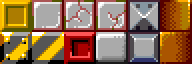
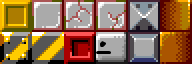
Added the directionality through a transform rotating the GameObject and the child objects associated. ShootAbility.cs works now properly!

Changed region(s): [[0.5, 0.625, 0.5625, 0.75], [0.5, 0.7812, 0.5938, 0.8438]]

diff --git a/Assets/Backend/Model/Ability/AbilityTypes/MoveAbility.cs b/Assets/Backend/Model/Ability/AbilityTypes/MoveAbility.cs
@@ -8,6 +8,7 @@ namespace Assets.Backend.Model
         public MoveAbilityArgs AbilityArgs { get; set; }
 
         private readonly Rigidbody2D _rigidBody;
+        private readonly Transform _transform;
 
         public MoveAbility(Character character, MoveAbilityArgs abilityArgs)
         {
@@ -16,18 +17,37 @@ namespace Assets.Backend.Model
 
             Input = Character.GetInput();
             _rigidBody = Character.Representation.GetComponent<Rigidbody2D>();
+            _transform = Character.Representation.GetComponent<Transform>();
         }
 
         public override void Activate()
         {
             if (Input.IsIntentingToMoveLeft)
             {
+                
+                if(Character.HorizontalDirection == EnHorizontalDirection.Right)
+                {
+                    _transform.localScale = new Vector3(
+                            _transform.localScale.x * -1,
+                            _transform.localScale.y,
+                            _transform.localScale.z);
+                }
+
                 Character.HorizontalDirection = EnHorizontalDirection.Left;
+
                 _rigidBody.velocity = new Vector2(-AbilityArgs.MoveSpeed, _rigidBody.velocity.y);
             }
                 
             else if (Input.IsIntentingToMoveRight)
             {
+                if (Character.HorizontalDirection == EnHorizontalDirection.Left)
+                {
+                    _transform.localScale = new Vector3(
+                            _transform.localScale.x * -1,
+                            _transform.localScale.y,
+                            _transform.localScale.z);
+                }
+
                 Character.HorizontalDirection = EnHorizontalDirection.Right;
                 _rigidBody.velocity = new Vector2(AbilityArgs.MoveSpeed, _rigidBody.velocity.y);
             }

diff --git a/Assets/Backend/Model/Ability/AbilityTypes/ShootAbility.cs b/Assets/Backend/Model/Ability/AbilityTypes/ShootAbility.cs
@@ -23,8 +23,20 @@ namespace Assets.Backend.Model
             if (AbilityArgs.Projectile == null) return;
             if (Input.IsIntentingToShoot)
             {
+                int potency = 5;
                 var projectile = _monoBehaviourUtils.CreateAndThenDestroy(AbilityArgs.Projectile, AbilityArgs.bulletSpawn, 2.0f);
-                projectile.GetComponent<Rigidbody2D>().velocity = projectile.transform.right * 5;
+
+                
+                if (Character.HorizontalDirection == EnHorizontalDirection.Right)
+                {
+                    
+                    projectile.GetComponent<Rigidbody2D>().velocity = projectile.transform.right * potency;
+                }
+                else
+                {
+                    projectile.GetComponent<Rigidbody2D>().velocity = projectile.transform.right * -potency;
+                }
+
             }
 
         }
